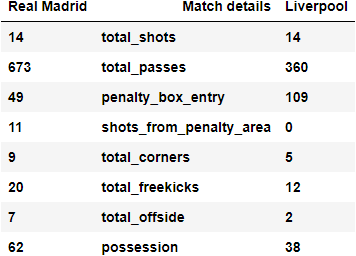
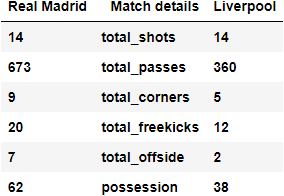
removed penalty area entries

diff --git a/team_KPI.py b/team_KPI.py
@@ -33,7 +33,7 @@ with open('C:/Users/fares/OneDrive/Documentos/eecs 582/project/SoccerTact/'+file
 from pandas.io.json import json_normalize
 df = json_normalize(data, sep = "_").assign(match_id = file_name[:-5])
 gdp_dict = {home_team_required : [],
-                'Match details': ['total_shots','total_passes','penalty_box_entry','shots_from_penalty_area','total_corners','total_freekicks','total_offside'],
+                'Match details': ['total_shots','total_passes','total_corners','total_freekicks','total_offside'],
                 away_team_required: []}
 possession = []
 Liv_data =  df.loc[df['team_name'] == 'Liverpool'].set_index('id')
@@ -53,16 +53,16 @@ def RealteamKPI():
     duration = 0
     total_offside = 0
     
-    for i, events in new_df.iterrows():
-         x = events['location'][0]
-         y = events['location'][1]
+    # for i, events in new_df.iterrows():
+    #      x = events['location'][0]
+    #      y = events['location'][1]
    
-         if(x > 102.0 and (y > 18.0 and y < 62.0)): 
-            penalty_box_entry = penalty_box_entry + 1
+    #      if(x > 102.0 and (y > 18.0 and y < 62.0)): 
+    #         penalty_box_entry = penalty_box_entry + 1
             
             
-            if (events['type_name'] == 'Shot'):
-                shots_from_penalty_area = shots_from_penalty_area + 1
+    #         if (events['type_name'] == 'Shot'):
+    #             shots_from_penalty_area = shots_from_penalty_area + 1
                 
     
     for i, events in real_data.iterrows():
@@ -83,7 +83,7 @@ def RealteamKPI():
             total_offside = total_offside + 1
     possession.append(duration)
             
-    gdp_dict[home_team_required].extend([int(total_shots),total_passes,penalty_box_entry,shots_from_penalty_area,total_corners,total_freekicks,total_offside]) 
+    gdp_dict[home_team_required].extend([int(total_shots),total_passes,total_corners,total_freekicks,total_offside]) 
     # print("=================")
     # print("Real Madrid Stats")
     # print("Total Shots " + str(total_shots))
@@ -107,14 +107,14 @@ def LivteamKPI():
     duration = 0
     total_offside = 0
     
-    for i, events in new_df.iterrows():
-         x = events['location'][0]
-         y = events['location'][1]
+    # for i, events in new_df.iterrows():
+    #      x = events['location'][0]
+    #      y = events['location'][1]
    
-         if(x < 18 and (y > 18.0 and y < 62.0)): 
-            penalty_box_entry = penalty_box_entry + 1
-            if (events['type_name'] == 'Shot'):
-                shots_from_penalty_area = shots_from_penalty_area + 1
+    #      if(x < 18 and (y > 18.0 and y < 62.0)): 
+    #         penalty_box_entry = penalty_box_entry + 1
+    #         if (events['type_name'] == 'Shot'):
+    #             shots_from_penalty_area = shots_from_penalty_area + 1
                 
     for i, events in Liv_data.iterrows():
         if (not pd.isna(events['duration'])):
@@ -131,7 +131,7 @@ def LivteamKPI():
                 total_offside = total_offside + 1
         if (events['type_name'] == "Offside"):
             total_offside = total_offside + 1
-    gdp_dict[away_team_required].extend([int(total_shots),total_passes,penalty_box_entry,shots_from_penalty_area,total_corners,total_freekicks, total_offside])
+    gdp_dict[away_team_required].extend([int(total_shots),total_passes,total_corners,total_freekicks, total_offside])
     possession.append(duration)
     # print("=================")
     # print("Liverpool Stats")
